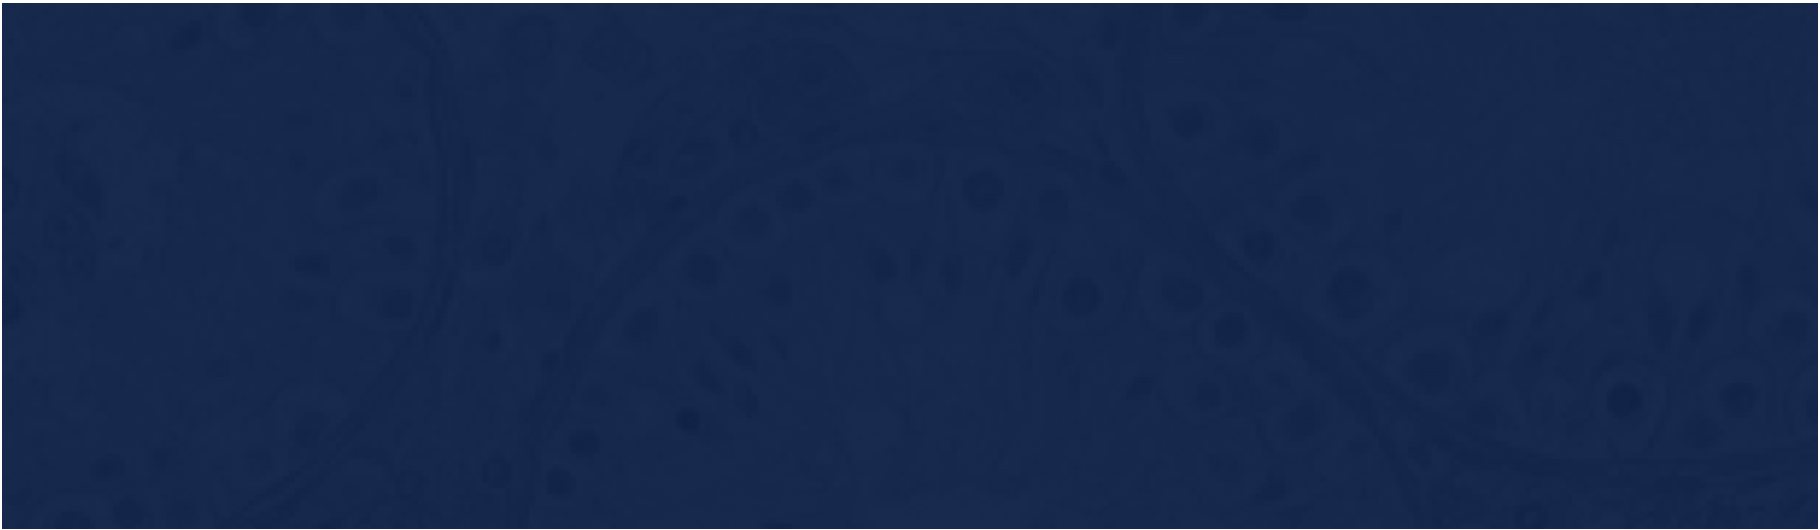
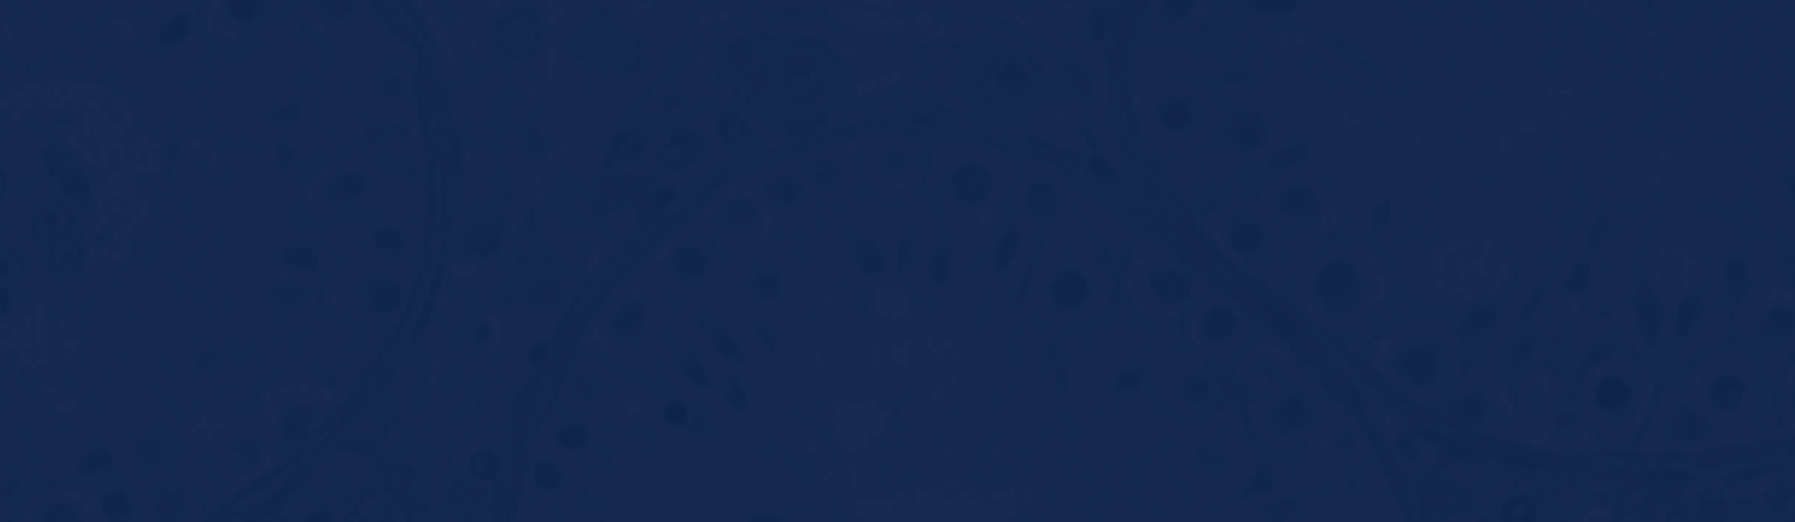
add carousel background img

Changed region(s): [[0.0, 0.0, 1.0, 1.0], [0.0, 0.9808, 0.0312, 1.0]]

diff --git a/assets/css/styles.css b/assets/css/styles.css
@@ -1594,8 +1594,8 @@ display: table-cell;
     }
     .header_promo {
         font-size: 24px;
-        text-align: left;
-        padding: 30px 0px 10px 0px;
+        text-align: center;
+        padding: 65px 60px;
     }
     .header_promo img {
         padding: 5px;
@@ -17687,6 +17687,7 @@ padding: 10px;
             /* margin-bottom: 54px; */
             margin-top: 0px;
             padding-top: 60px;
+            background-repeat: no-repeat;
             width: 100%;
             height: 110px;
             font-size: 16px;
@@ -18103,7 +18104,7 @@ padding: 5px;
     }
     .hm_certification_logos {
         display: block;
-        padding-top: 130px;
+        padding-top: 70px;
     }
     .home_bgo_protect_image {
         clear: both;
@@ -25264,7 +25265,7 @@ font-size: 28px;
     }
 }
 
-@media screen and (max-height: 575px) {
+@media screen and (max-width: 575px) {
     #rc-imageselect, .g-recaptcha {
         transform: scale(0.77);
         -webkit-transform: scale(0.77);
@@ -25295,9 +25296,9 @@ font-size: 28px;
     width: 100%;
     height: 150px!important;
 }
-@media screen and (max-height: 767px) {
+@media screen and (max-width: 767px) {
     .logo_width img {
-        height: 50px;
+        height: 50px!important;
     }
 }
 .main-img {

diff --git a/index.html b/index.html
@@ -37,10 +37,12 @@ layout: default
             {% for news in site.posts %}
             <li
               class="unslider-clone row li-back"
-              style="width: 12.5%; background-image: url(/assets/image/news/newsbox_cells.png); "
+              style="width: 12.5%; background-image: url(/assets/image/news/{{
+                news.img
+              }}); "
             >
               <div class="row">
-                <div class="col-md-6" style="vertical-align: top;">
+                <div class="" style="vertical-align: top;">
                   <div class="header_promo">
                     {{ news.title }} <br />
                     {% if news.title2%} {{ news.title2 }} {% endif%}

diff --git a/_posts/2018-03-22-IEEE.md b/_posts/2018-03-22-IEEE.md
@@ -1,8 +1,9 @@
 ---
 title: "AI Cardiologist Aces Its First Medical Exam — IEEE Spectrum"
 date: 2018-03-22
+img: "newsbox_cells.png"
 redirect_to:
-  -
+  - https://spectrum.ieee.org/the-human-os/biomedical/diagnostics/ai-cardiologist-aces-its-first-medical-exam
 ---
 
 [comment]: <> (You can read the story [here](https://spectrum.ieee.org/the-human-os/biomedical/diagnostics/ai-cardiologist-aces-its-first-medical-exam).)

diff --git a/_posts/2018-03-26-CNET.md b/_posts/2018-03-26-CNET.md
@@ -1,8 +1,9 @@
 ---
 title: "View classification for echocardiograms on CNET"
 date: 2018-03-26
+img: "newsbox_feet.png"
 redirect_to:
-  -
+  - https://www.cnet.com/news/ai-can-quickly-and-efficiently-analyze-heart-scans/
 ---
 
 [comment]: <> (You can read the story [here](https://www.cnet.com/news/ai-can-quickly-and-efficiently-analyze-heart-scans/).)

diff --git a/_posts/2018-07-10-Catalyst.md b/_posts/2018-07-10-Catalyst.md
@@ -1,8 +1,9 @@
 ---
 title: "Arnaout Lab Wins UCSF Catalyst Award"
 date: 2018-07-10
+img: "newsbox_heart.png"
 redirect_to:
-  -
+  - https://accelerate.ucsf.edu/funding/catalyst-awardees#spring18
 ---
 
 [comment]: <> (You can read the story [here](https://accelerate.ucsf.edu/funding/catalyst-awardees#spring18)

diff --git a/_posts/2017-11-08-new-data.md b/_posts/2017-11-08-new-data.md
@@ -1,6 +1,7 @@
 ---
 title: New data grants awarded to clinical and population researchers, computer engineers and computational biologists
 author: Rima Arnaout
+img: "newsbox_mmode2.png"
 date: 2017-11-08
 redirect_to:
   - https://www.eurekalert.org/pub_releases/2017-11/aha-ndg110817.php

diff --git a/_posts/2017-11-13-best-abstract.md b/_posts/2017-11-13-best-abstract.md
@@ -2,6 +2,7 @@
 title: "Arnaout lab abstract named one of AHA 2017's"
 title2: "'Best Abstracts in Health Tech'"
 author: Rima Arnaout
+img: "newsbox_baby.png"
 date: 2017-11-13
 redirect_to:
   - http://circ.ahajournals.org/content/136/Suppl_1/A18074

diff --git a/_posts/2018-07-27-IEEE.md b/_posts/2018-07-27-IEEE.md
@@ -1,6 +1,7 @@
 ---
 title: "Making Medical AI Trustworthy and Transparent — IEEE Spectrum"
 date: 2018-07-27
+img: "newsbox_nuke.png"
 redirect_to:
   - https://spectrum.ieee.org/biomedical/devices/making-medical-ai-trustworthy-and-transparent
 ---

diff --git a/_posts/2018-09-26-Biohub.md b/_posts/2018-09-26-Biohub.md
@@ -1,6 +1,7 @@
 ---
 title: "Arnaout Lab Part of Tri-Institutional Team"
 title2: "Winning a $2M Chan Zuckerberg Biohub Award"
+img: "newsbox_baby.png"
 date: 2018-09-26
 redirect_to:
   - https://www.czbiohub.org/intercampus-research-programs/

diff --git a/_posts/2017-12-26-rima-interview.md b/_posts/2017-12-26-rima-interview.md
@@ -1,6 +1,7 @@
 ---
 title: MedPage Today interviews Rima Arnaout about how AI will change medicine
 date: 2017-12-26
+img: "newsbox_brain.png"
 redirect_to:
   - https://www.medpagetoday.com/practicemanagement/informationtechnology/70119
 ---

diff --git a/_posts/2013-07-01-rima-joins.md b/_posts/2013-07-01-rima-joins.md
@@ -1,7 +1,7 @@
 ---
 title: Rima Arnaout joins the Cardiology faculty at UCSF
 date: 2013-07-01
-img: "bakar_institute_logo.png"
+img: "newsbox_mmode1.png"
 redirect_to:
   - https://cardiology.ucsf.edu/facstaff/spotlight/arnaout.html
 ---

diff --git a/_posts/2018-11-15-AHA_Data_Winner.md b/_posts/2018-11-15-AHA_Data_Winner.md
@@ -2,7 +2,7 @@
 title: "Dr. Arnaout Wins American Heart Association"
 title2: "Precision Medicine Competition"
 date: 2018-11-15
-img: "aha_pmi_logo.png"
+img: "newsbox_heart.png"
 redirect_to:
   - https://precision.heart.org/
 ---
